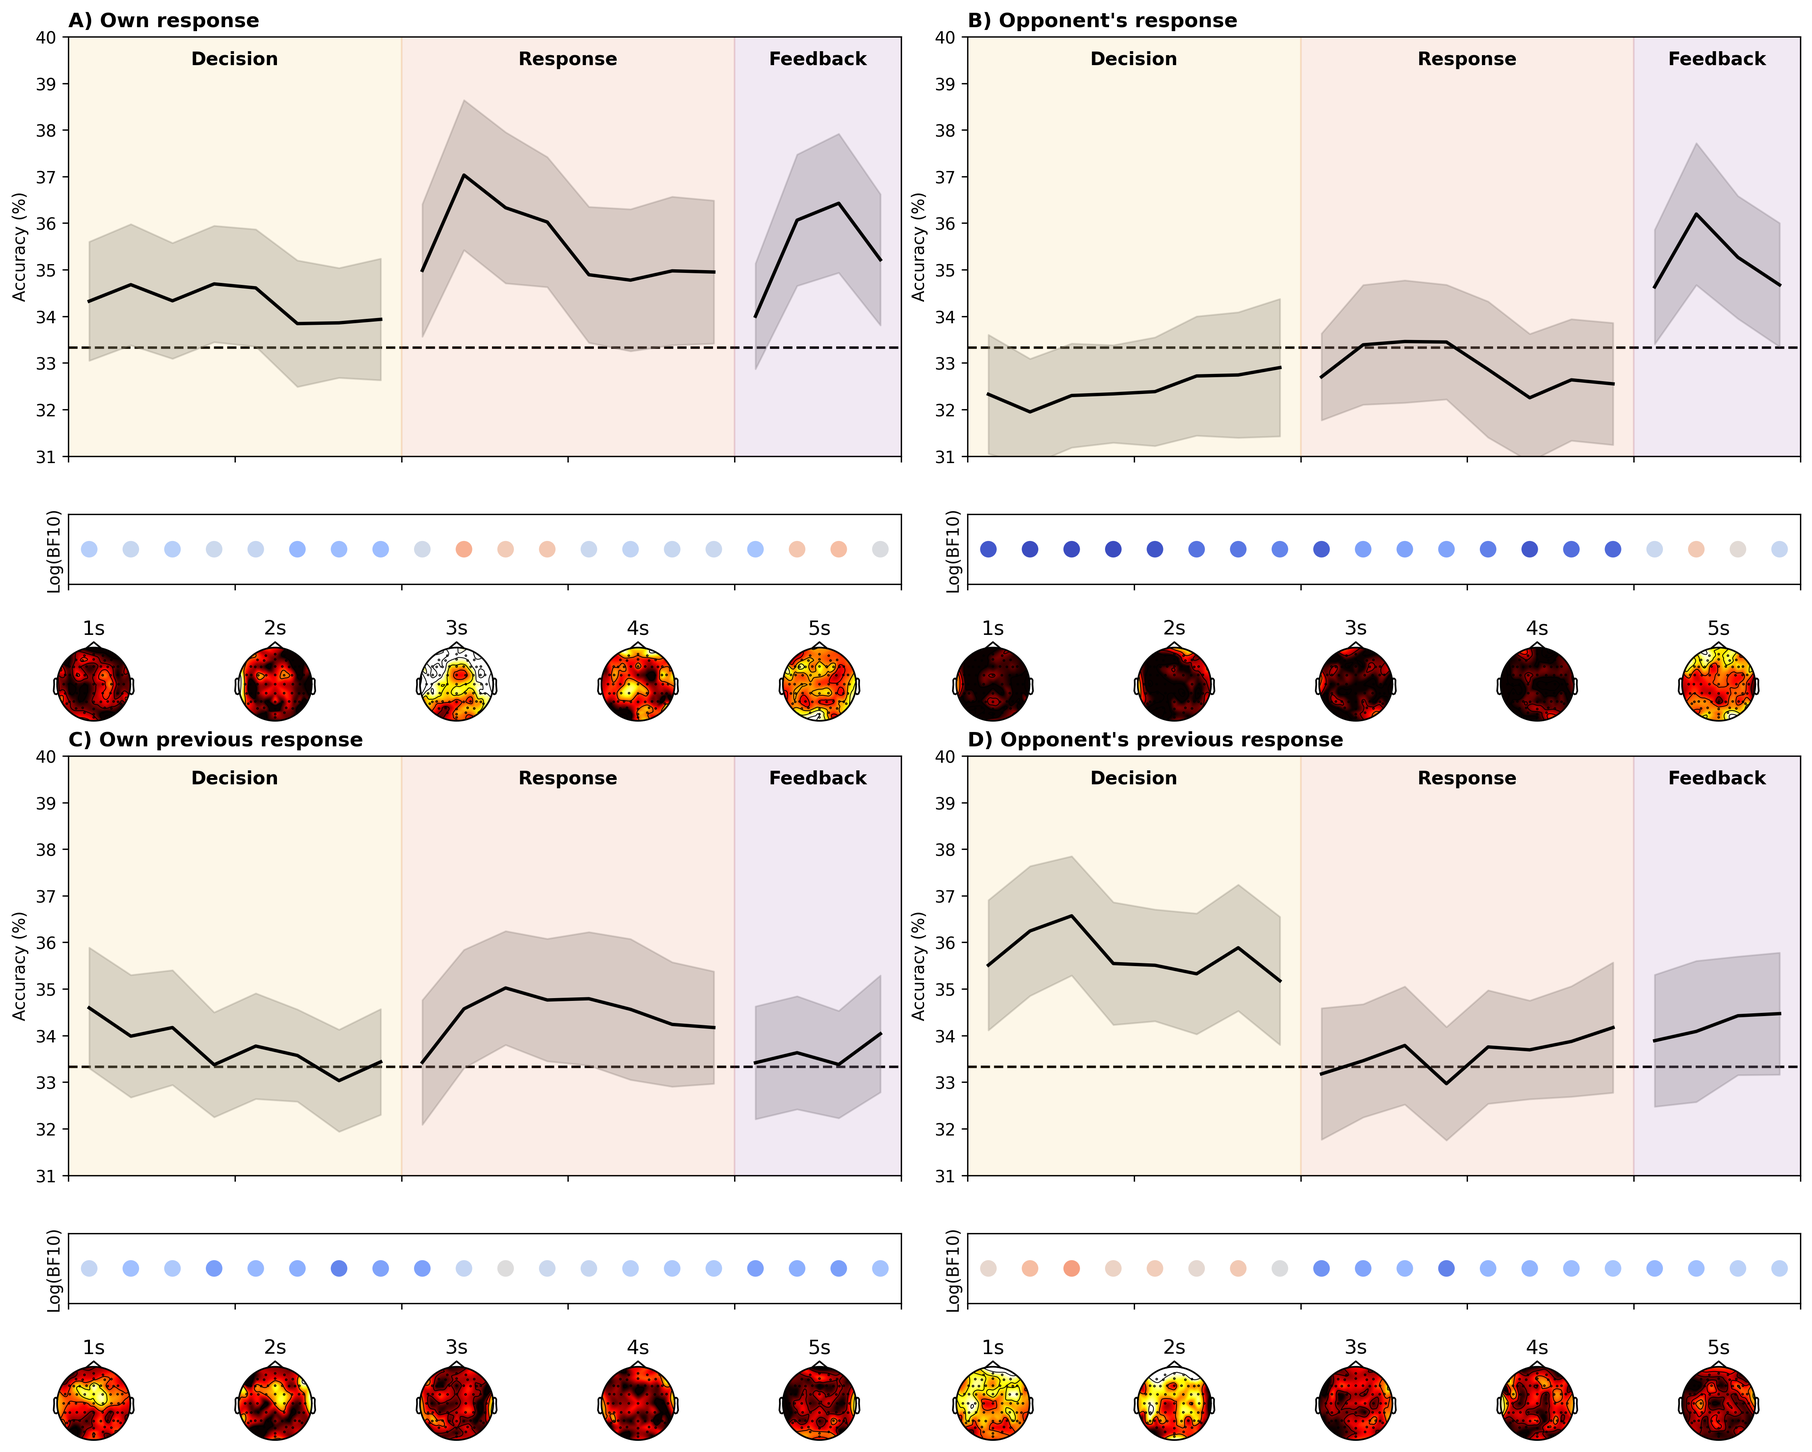
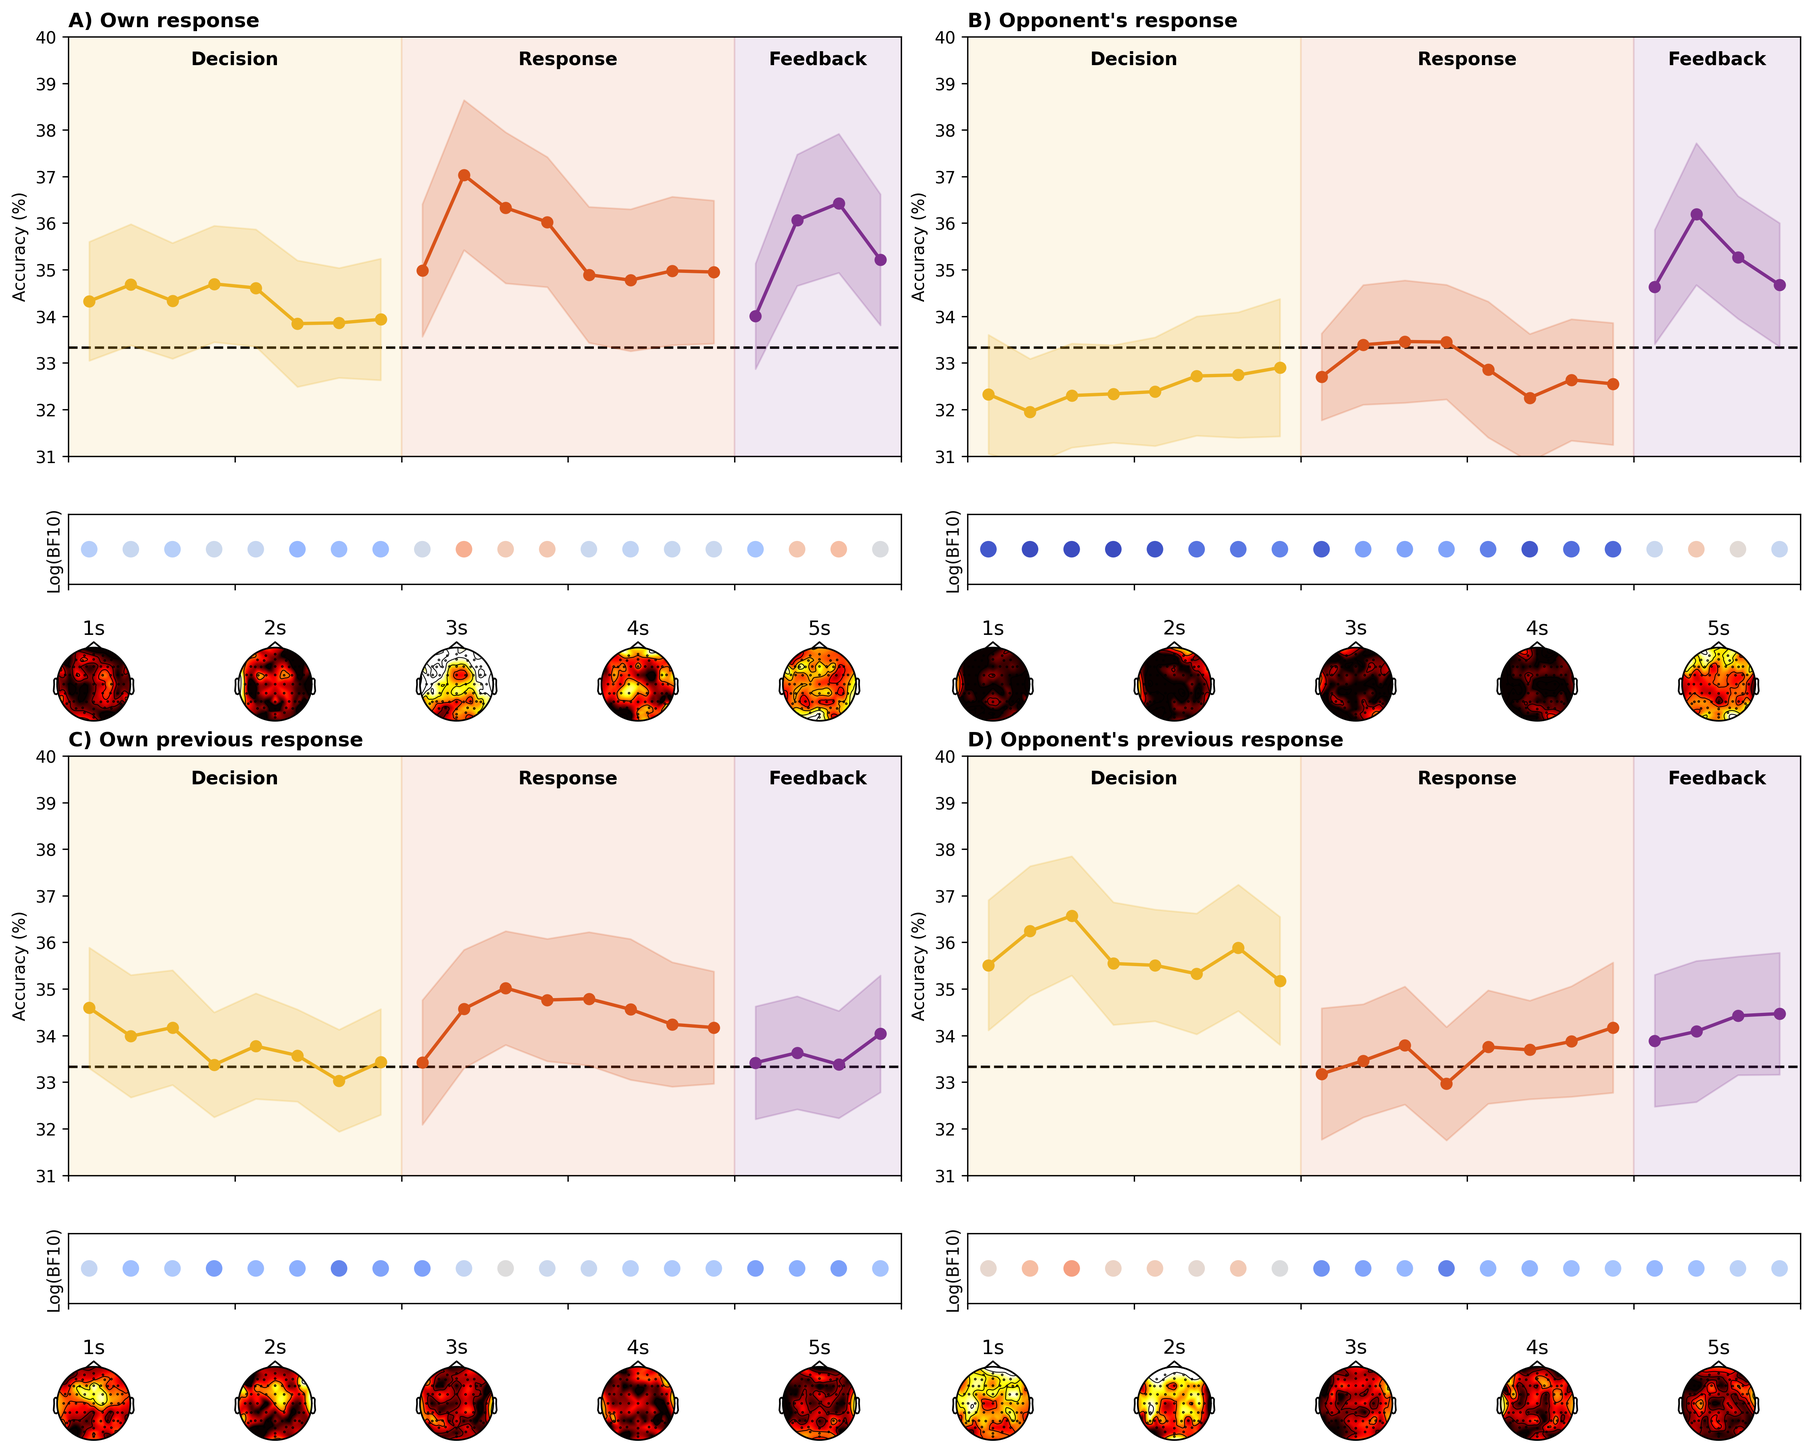
decoding logic change to manual LDA with discriminant = 0.01

diff --git a/step2a_decoding.py b/step2a_decoding.py
@@ -11,7 +11,7 @@ import mne
 import numpy as np
 import pandas as pd
 import scipy.io
-from sklearn.discriminant_analysis import LinearDiscriminantAnalysis
+from sklearn.base import BaseEstimator, ClassifierMixin
 from sklearn.model_selection import StratifiedKFold, LeaveOneGroupOut, cross_val_score
 import pickle
 
@@ -32,51 +32,88 @@ biosemi_to_std = {
     'B25': 'POz', 'B26': 'PO4', 'B27': 'PO6', 'B28': 'PO8', 'B29': 'O1', 'B30': 'Oz', 'B31': 'O2', 'B32': 'Iz'
 }
 
-# Generate ordered list of standard channel names (A1..A32, B1..B32)
 std_names_ordered = [biosemi_to_std[f'A{i}'] for i in range(1,33)] + [biosemi_to_std[f'B{i}'] for i in range(1,33)]
 
 # Load the original BioSemi electrode positions
-biosemi_mat = scipy.io.loadmat('biosemi64.mat')   # adjust path if needed
-orig_coords = biosemi_mat['biosemi64']            # shape (64, 3)
+try:
+    biosemi_mat = scipy.io.loadmat('biosemi64.mat')
+    orig_coords = biosemi_mat['biosemi64']
+    pos_dict = {name: orig_coords[i] for i, name in enumerate(std_names_ordered)}
+except Exception:
+    pos_dict = None
 
-# Create a dictionary mapping channel name to its 3D position
-pos_dict = {name: orig_coords[i] for i, name in enumerate(std_names_ordered)}
+
+class CosmoLDA(BaseEstimator, ClassifierMixin):
+    """
+    Exact replication of CoSMoMVPA's cosmo_classify_lda.
+    Unlike scikit-learn's shrinkage which blends with the diagonal based on variance,
+    this adds the regularization parameter directly to the diagonal of the pooled
+    covariance matrix as done in CoSMoMVPA. It also assumes equal class priors.
+    """
+    def __init__(self, reg=0.01):
+        self.reg = reg
+        
+    def fit(self, X, y):
+        self.classes_ = np.unique(y)
+        n_classes = len(self.classes_)
+        n_features = X.shape[1]
+        
+        self.means_ = np.zeros((n_classes, n_features))
+        
+        X_c = np.empty_like(X, dtype=float)
+        for i, c in enumerate(self.classes_):
+            idx = (y == c)
+            self.means_[i] = np.mean(X[idx], axis=0)
+            X_c[idx] = X[idx] - self.means_[i]
+            
+        # CoSMoMVPA pooled covariance matrix
+        cov = (X_c.T @ X_c) / (len(y) - n_classes)
+        
+        # Exact CoSMoMVPA regularization (add lambda directly to diagonal)
+        if self.reg > 0:
+            cov += self.reg * np.eye(n_features)
+            
+        self.cov_inv_ = np.linalg.pinv(cov)
+        return self
+        
+    def predict(self, X):
+        scores = np.zeros((X.shape[0], len(self.classes_)))
+        for i, c in enumerate(self.classes_):
+            mu = self.means_[i]
+            # CoSMoMVPA discriminant function (no log-prior term included)
+            scores[:, i] = X @ self.cov_inv_ @ mu - 0.5 * (mu @ self.cov_inv_ @ mu)
+        return self.classes_[np.argmax(scores, axis=1)]
+
 
 def get_time_bins(epochs):
     times = epochs.times
-    data = epochs.get_data()
+    data = epochs.get_data() * 1e6  # Convert to microvolts as in FieldTrip
     
-    # Masks for each phase
+    # 1. Slice into phases exactly like MATLAB's [latency]
     mask_A = (times >= -0.2) & (times <= 2.0)
     mask_B = (times >= 1.8) & (times <= 4.0)
     mask_C = (times >= 3.8) & (times <= 5.0)
     
-    # Corrected baselines mapping to the author's shifted time vectors
-    mask_base_A = (times >= -0.2) & (times <= 0)     
-    mask_base_B = (times >= 1.8) & (times <= 2.0)    
-    mask_base_C = (times >= 3.8) & (times <= 4.0)
-    
-    # Extract data for each phase
     data_A = data[:, :, mask_A]
     data_B = data[:, :, mask_B]
     data_C = data[:, :, mask_C]
     
-    # Compute baselines
-    baseline_A = np.mean(data[:, :, mask_base_A], axis=2, keepdims=True)
-    baseline_B = np.mean(data[:, :, mask_base_B], axis=2, keepdims=True)
-    baseline_C = np.mean(data[:, :, mask_base_C], axis=2, keepdims=True)
+    times_A = times[mask_A]
     
-    # Subtract baselines
+    # 2. Baseline correction on [-0.2, 0]
+    # Because MATLAB overrode Part B and C's time vectors with Part A's time vector,
+    # the baseline window effectively targeted the FIRST 0.2 seconds of the slice.
+    mask_base_rel = (times_A >= -0.2) & (times_A <= 0)
+    
+    baseline_A = np.mean(data_A[:, :, mask_base_rel], axis=2, keepdims=True)
+    baseline_B = np.mean(data_B[:, :, mask_base_rel], axis=2, keepdims=True)
+    baseline_C = np.mean(data_C[:, :, mask_base_rel[:data_C.shape[2]]], axis=2, keepdims=True)
+    
     data_A -= baseline_A
     data_B -= baseline_B
     data_C -= baseline_C
     
-    # Shift time axes so that each phase starts at 0
-    times_A = times[mask_A]
-    times_B = times[mask_B] - 2.0   # response phase starts at 1.8s → shift to 0
-    times_C = times[mask_C] - 4.0   # feedback phase starts at 3.8s → shift to 0
-    
-    # Define bin edges (same as before)
+    # 3. Time binning (using STRICT inequalities > and < to match MATLAB logical arrays)
     time_windows_AB = np.array([np.arange(0, 1.76, 0.25), np.arange(0.25, 2.01, 0.25)]).T
     time_windows_C = np.array([np.arange(0, 0.76, 0.25), np.arange(0.25, 1.01, 0.25)]).T
     
@@ -84,28 +121,32 @@ def get_time_bins(epochs):
     binned_data = np.zeros((num_tr, num_chan, len(time_windows_AB)*2 + len(time_windows_C)))
     
     bin_idx = 0
-    # Decision phase bins (using times_A)
+    # Decision phase bins
     for w in time_windows_AB:
-        m_A = (times_A > w[0]) & (times_A < w[1])
-        binned_data[:, :, bin_idx] = np.mean(data_A[:, :, m_A], axis=2)
+        m = (times_A > w[0]) & (times_A < w[1])
+        binned_data[:, :, bin_idx] = np.mean(data_A[:, :, m], axis=2)
         bin_idx += 1
-    # Response phase bins (using times_B)
+        
+    # Response phase bins
     for w in time_windows_AB:
-        m_B = (times_B > w[0]) & (times_B < w[1])
-        binned_data[:, :, bin_idx] = np.mean(data_B[:, :, m_B], axis=2)
+        min_len = min(len(times_A), data_B.shape[2])
+        m = (times_A[:min_len] > w[0]) & (times_A[:min_len] < w[1])
+        binned_data[:, :, bin_idx] = np.mean(data_B[:, :, m], axis=2)
         bin_idx += 1
-    # Feedback phase bins (using times_C)
+        
+    # Feedback phase bins
     for w in time_windows_C:
-        m_C = (times_C > w[0]) & (times_C < w[1])
-        binned_data[:, :, bin_idx] = np.mean(data_C[:, :, m_C], axis=2)
+        min_len = min(len(times_A), data_C.shape[2])
+        m = (times_A[:min_len] > w[0]) & (times_A[:min_len] < w[1])
+        binned_data[:, :, bin_idx] = np.mean(data_C[:, :, m], axis=2)
         bin_idx += 1
         
     return binned_data
 
+
 def create_pseudo_trials(X, y, n_splits=10, count=4, repeats=20, random_state=1):
     """
     Replicates CoSMoMVPA's cosmo_average_samples.
-    Splits data into 'n_splits' chunks. Within each chunk and class, averages 'count' trials 'repeats' times.
     """
     skf = StratifiedKFold(n_splits=n_splits, shuffle=True, random_state=random_state)
     
@@ -121,6 +162,7 @@ def create_pseudo_trials(X, y, n_splits=10, count=4, repeats=20, random_state=1)
         
         for c in np.unique(fold_y):
             c_idx = np.where(fold_y == c)[0]
+            # In MATLAB, replace is True if fewer samples than count
             replace = len(c_idx) < count
             
             for _ in range(repeats):
@@ -130,6 +172,7 @@ def create_pseudo_trials(X, y, n_splits=10, count=4, repeats=20, random_state=1)
                 chunks.append(chunk_idx)
                 
     return np.array(X_pseudo), np.array(y_pseudo), np.array(chunks)
+
 
 def run_decoding(max_pairs=None):
     deriv_dir = os.path.join(path_to_data, 'derivatives')
@@ -170,10 +213,8 @@ def run_decoding(max_pairs=None):
                 
             epochs = mne.read_epochs(epoch_file, preload=True, verbose=False)
 
-            # Assign montage – no renaming needed
             montage = mne.channels.make_standard_montage('biosemi64')
             epochs.set_montage(montage, on_missing='ignore')
-
             epochs.set_eeg_reference('average', projection=False, verbose=False)
             
             rem_idx = np.arange(0, 480, 40)
@@ -184,32 +225,36 @@ def run_decoding(max_pairs=None):
             
             binned_data = get_time_bins(epochs_sel)
             
-            # --- Build custom neighbor lists using original BioSemi coordinates ---
             ch_names_epoch = epochs_sel.ch_names
-            # Ensure all channels have positions
-            missing = [ch for ch in ch_names_epoch if ch not in pos_dict]
-            if missing:
-                raise ValueError(f"Missing positions for channels: {missing}")
-            
             n_chan = len(ch_names_epoch)
-            dist_mat = np.zeros((n_chan, n_chan))
-            for i, ch1 in enumerate(ch_names_epoch):
-                for j, ch2 in enumerate(ch_names_epoch):
-                    dist_mat[i, j] = np.linalg.norm(pos_dict[ch1] - pos_dict[ch2])
             
-            # For each channel, find the 3 closest other channels (excluding itself)
-            neighbor_lists = []
-            for i in range(n_chan):
-                distances = dist_mat[i].copy()
-                distances[i] = np.inf          # exclude self
-                closest_3 = np.argsort(distances)[:3]   # indices of 3 nearest neighbours
-                neighbor_list = [i] + list(closest_3)   # include the center channel
-                neighbor_lists.append(neighbor_list)
-            # --------------------------------------------------------------
+            if pos_dict is not None:
+                dist_mat = np.zeros((n_chan, n_chan))
+                for i, ch1 in enumerate(ch_names_epoch):
+                    for j, ch2 in enumerate(ch_names_epoch):
+                        dist_mat[i, j] = np.linalg.norm(pos_dict[ch1] - pos_dict[ch2])
+                
+                neighbor_lists = []
+                for i in range(n_chan):
+                    distances = dist_mat[i].copy()
+                    distances[i] = np.inf
+                    closest_3 = np.argsort(distances)[:3]
+                    neighbor_lists.append([i] + list(closest_3))
+            else:
+                pos = epochs_sel.get_montage().get_positions()['ch_pos']
+                pos_arr = np.array([pos[ch] for ch in ch_names_epoch])
+                from scipy.spatial.distance import cdist
+                dist_mat = cdist(pos_arr, pos_arr)
+                neighbor_lists = []
+                for i in range(n_chan):
+                    distances = dist_mat[i].copy()
+                    distances[i] = np.inf
+                    closest_3 = np.argsort(distances)[:3]
+                    neighbor_lists.append([i] + list(closest_3))
             
             decoding_accuracy = []
             searchlight_acc = []
-            targets_map = [0, 1, 3, 4]   # columns in behav_data: self, other, selfp, otherp
+            targets_map = [0, 1, 3, 4]
             
             for test_idx in targets_map:
                 y = behav_data[:, test_idx]
@@ -222,34 +267,33 @@ def run_decoding(max_pairs=None):
                     searchlight_acc.append(np.full((num_chan, 20), np.nan))
                     continue
                 
-                # Apply Pseudo-trial averaging (using fixed seed to match MATLAB)
                 X_pseudo, y_pseudo, chunks_pseudo = create_pseudo_trials(
                     X_valid, y_valid, n_splits=10, count=4, repeats=20, random_state=1
                 )
                 
-                # Use LeaveOneGroupOut with the chunks generated by the pseudo-trial function
                 cv = LeaveOneGroupOut()
-                clf = LinearDiscriminantAnalysis(solver='lsqr', shrinkage=0.01)
+                # Deploy custom CosmoLDA!
+                clf = CosmoLDA(reg=0.01)
                 
                 acc_time = np.zeros(20)
                 for t in range(20):
                     X_t = X_pseudo[:, :, t]
-                    acc_time[t] = cross_val_score(clf, X_t, y_pseudo, groups=chunks_pseudo, cv=cv, scoring='balanced_accuracy', n_jobs=-1).mean()
+                    acc_time[t] = cross_val_score(clf, X_t, y_pseudo, groups=chunks_pseudo, cv=cv, scoring='accuracy', n_jobs=-1).mean()
                 decoding_accuracy.append(acc_time)
                 
                 sl_acc = np.zeros((num_chan, 20))
                 
-                # Searchlight using custom neighbour lists
                 for ch in range(num_chan):
-                    ch_idx = neighbor_lists[ch]   # list of indices (including center)
+                    ch_idx = neighbor_lists[ch]
                     for t in range(20):
                         X_t_sl = X_pseudo[:, ch_idx, t]
-                        sl_acc[ch, t] = cross_val_score(clf, X_t_sl, y_pseudo, groups=chunks_pseudo, cv=cv).mean()
+                        sl_acc[ch, t] = cross_val_score(clf, X_t_sl, y_pseudo, groups=chunks_pseudo, cv=cv, scoring='accuracy').mean()
                 searchlight_acc.append(sl_acc)
                 
             out_file = os.path.join(deriv_dir, f'pair-{pair:02d}_player-{ppt}_task-RPS_decoding.pkl')
             with open(out_file, 'wb') as f:
                 pickle.dump({'decoding': decoding_accuracy, 'searchlight': searchlight_acc, 'ch_names': ch_names_epoch}, f)
+
 
 if __name__ == '__main__':
     import argparse

diff --git a/step3b_plot_Fig2_Fig3.py b/step3b_plot_Fig2_Fig3.py
@@ -5,9 +5,6 @@ Includes the text labels over the phase windows.
 """
 
 import os
-# Set R_HOME explicitly if needed
-# os.environ['R_HOME'] = r'C:\Program Files\R\R-4.5.2' 
-
 import pickle
 import numpy as np
 import pandas as pd
@@ -59,6 +56,7 @@ def calc_bayes_factor(data, mu=1/3, rscale="medium", null_interval="c(0.5, Inf)"
         t_stat, _ = stats.ttest_1samp(data, mu)
         return pg.bayesfactor_ttest(t_stat, nx=len(data), r=rscale)
 
+
 def calc_bayes_factor_ind(data_win, data_los, rscale="medium", null_interval="c(-0.5, 0.5)"):
     if not R_AVAILABLE:
         from scipy import stats
@@ -77,6 +75,7 @@ def calc_bayes_factor_ind(data_win, data_los, rscale="medium", null_interval="c(
         from scipy import stats
         t_stat, _ = stats.ttest_ind(data_win, data_los)
         return pg.bayesfactor_ttest(t_stat, nx=len(data_win), ny=len(data_los), r=rscale)
+
 
 def plot_decoding(max_pairs=None):
     pairs_to_run = pair_ids[:max_pairs] if max_pairs is not None else pair_ids
@@ -115,6 +114,7 @@ def plot_decoding(max_pairs=None):
     gs2 = gridspec.GridSpec(2, 2, figure=fig2, hspace=0.3, wspace=0.2)
     titles = ['A) Own response', "B) Opponent's response", 'C) Own previous response', "D) Opponent's previous response"]
     
+    # Using 1-indexed ticks locally but 0.125 increments matching the bins
     x_axis_time = np.linspace(0.125, 4.875, 20) 
     
     for t in range(num_tests):
@@ -129,21 +129,18 @@ def plot_decoding(max_pairs=None):
         ci = np.nanstd(data_t * 100, axis=0) / np.sqrt(num_pairs_run * 2) * 1.96
         
         ax_main.axhline(33.33, color='k', linestyle='--', zorder=0)
-        # Decision (bins 0-7)
-        ax_main.plot(x_axis_time[:8], data_mean[:8], 'k-', linewidth=2)
-        ax_main.fill_between(x_axis_time[:8], data_mean[:8] - ci[:8], data_mean[:8] + ci[:8], color='gray', alpha=0.3)
-        # Response (bins 8-15)
-        ax_main.plot(x_axis_time[8:16], data_mean[8:16], 'k-', linewidth=2)
-        ax_main.fill_between(x_axis_time[8:16], data_mean[8:16] - ci[8:16], data_mean[8:16] + ci[8:16], color='gray', alpha=0.3)
-        # Feedback (bins 16-19)
-        ax_main.plot(x_axis_time[16:], data_mean[16:], 'k-', linewidth=2)
-        ax_main.fill_between(x_axis_time[16:], data_mean[16:] - ci[16:], data_mean[16:] + ci[16:], color='gray', alpha=0.3)
+        
+        # Segment plotting to match paper's distinct lines
+        colors = ['#EDB120', '#D95319', '#7E2F8E']
+        for idx, (start, end) in enumerate([(0, 8), (8, 16), (16, 20)]):
+            ax_main.plot(x_axis_time[start:end], data_mean[start:end], color=colors[idx], linewidth=2)
+            ax_main.fill_between(x_axis_time[start:end], data_mean[start:end] - ci[start:end], data_mean[start:end] + ci[start:end], color=colors[idx], alpha=0.2)
+            ax_main.scatter(x_axis_time[start:end], data_mean[start:end], color=colors[idx], s=40)
         
         ax_main.axvspan(0, 2, color='#EDB120', alpha=0.1)
         ax_main.axvspan(2, 4, color='#D95319', alpha=0.1)
         ax_main.axvspan(4, 5, color='#7E2F8E', alpha=0.1)
         
-        # Add the missing phase labels
         ax_main.text(1.0, 39.7, 'Decision', ha='center', va='top', fontsize=11, fontweight='bold', color='black', zorder=10)
         ax_main.text(3.0, 39.7, 'Response', ha='center', va='top', fontsize=11, fontweight='bold', color='black', zorder=10)
         ax_main.text(4.5, 39.7, 'Feedback', ha='center', va='top', fontsize=11, fontweight='bold', color='black', zorder=10)
@@ -198,9 +195,8 @@ def plot_decoding(max_pairs=None):
             for d, c, lbl in zip([data_win, data_los], ['#0072BD', '#77AC30'], ['Winners', 'Losers']):
                 mean_d = np.nanmean(d, axis=0)
                 ci_d = np.nanstd(d, axis=0) / np.sqrt(len(d)) * 1.96
-                # Plot segmented lines to match phase breaks
                 for start, end in [(0, 8), (8, 16), (16, 20)]:
-                    line_lbl = lbl if start == 0 else None  # Only label the first segment for the legend
+                    line_lbl = lbl if start == 0 else None
                     ax_main.plot(x_axis_time[start:end], mean_d[start:end], color=c, linewidth=2, label=line_lbl)
                     ax_main.fill_between(x_axis_time[start:end], mean_d[start:end] - ci_d[start:end], mean_d[start:end] + ci_d[start:end], color=c, alpha=0.15)
                     ax_main.scatter(x_axis_time[start:end], mean_d[start:end], color=c, s=30)
@@ -209,7 +205,6 @@ def plot_decoding(max_pairs=None):
             ax_main.axvspan(2, 4, color='#D95319', alpha=0.1)
             ax_main.axvspan(4, 5, color='#7E2F8E', alpha=0.1)
             
-            # Add the missing phase labels
             ax_main.text(1.0, 39.7, 'Decision', ha='center', va='top', fontsize=11, fontweight='bold', color='black', zorder=10)
             ax_main.text(3.0, 39.7, 'Response', ha='center', va='top', fontsize=11, fontweight='bold', color='black', zorder=10)
             ax_main.text(4.5, 39.7, 'Feedback', ha='center', va='top', fontsize=11, fontweight='bold', color='black', zorder=10)
